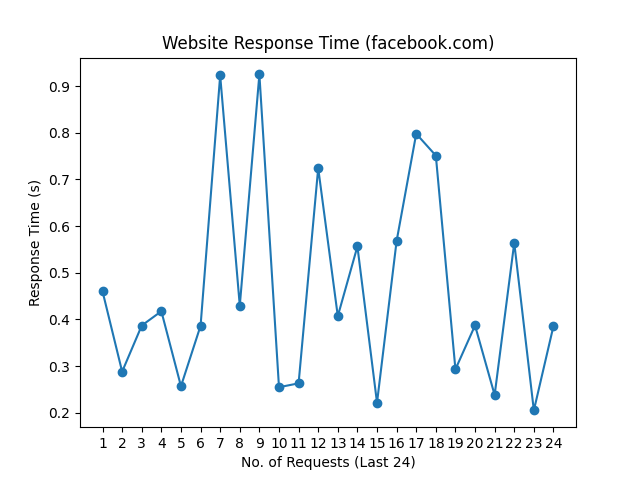
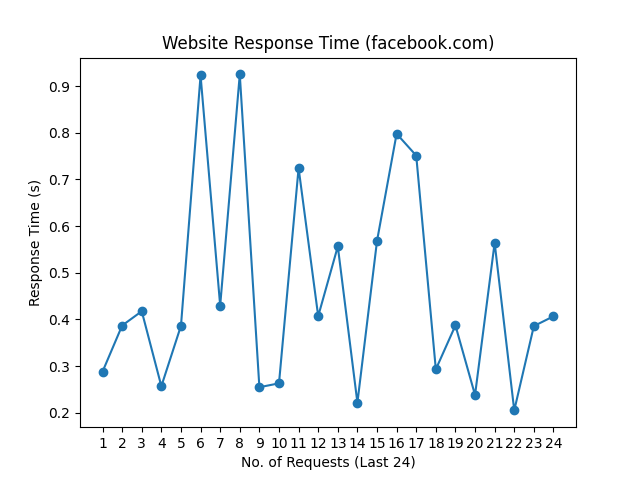
update README.md, history and graph

Changed region(s): [[0.1562, 0.125, 0.875, 0.875]]

diff --git a/README.md b/README.md
@@ -1,10 +1,10 @@
 # Web Monitoring
 
-Last Checked: 28/12/2023 09:00
+Last Checked: 29/12/2023 08:52
 
 | Website | Response Time (s) | Status | Avg Uptime (%) |
 |---------|-------------------|--------|----------------|
 | www.thiswebsiteisdown.net | 0 <br> <img src="graph/thiswebsiteisdown.net.png" alt="Graph" width="200" height="200">  | ❌ Down | 0.00 |
-| www.netflix.com | 0.552294 <br> <img src="graph/netflix.com.png" alt="Graph" width="200" height="200">  | ✅ Up | 100.00 |
-| www.google.com | 0.091574 <br> <img src="graph/google.com.png" alt="Graph" width="200" height="200">  | ✅ Up | 100.00 |
-| www.facebook.com | 0.385711 <br> <img src="graph/facebook.com.png" alt="Graph" width="200" height="200">  | ✅ Up | 100.00 |
+| www.netflix.com | 0.421677 <br> <img src="graph/netflix.com.png" alt="Graph" width="200" height="200">  | ✅ Up | 100.00 |
+| www.google.com | 0.073605 <br> <img src="graph/google.com.png" alt="Graph" width="200" height="200">  | ✅ Up | 100.00 |
+| www.facebook.com | 0.406690 <br> <img src="graph/facebook.com.png" alt="Graph" width="200" height="200">  | ✅ Up | 100.00 |
